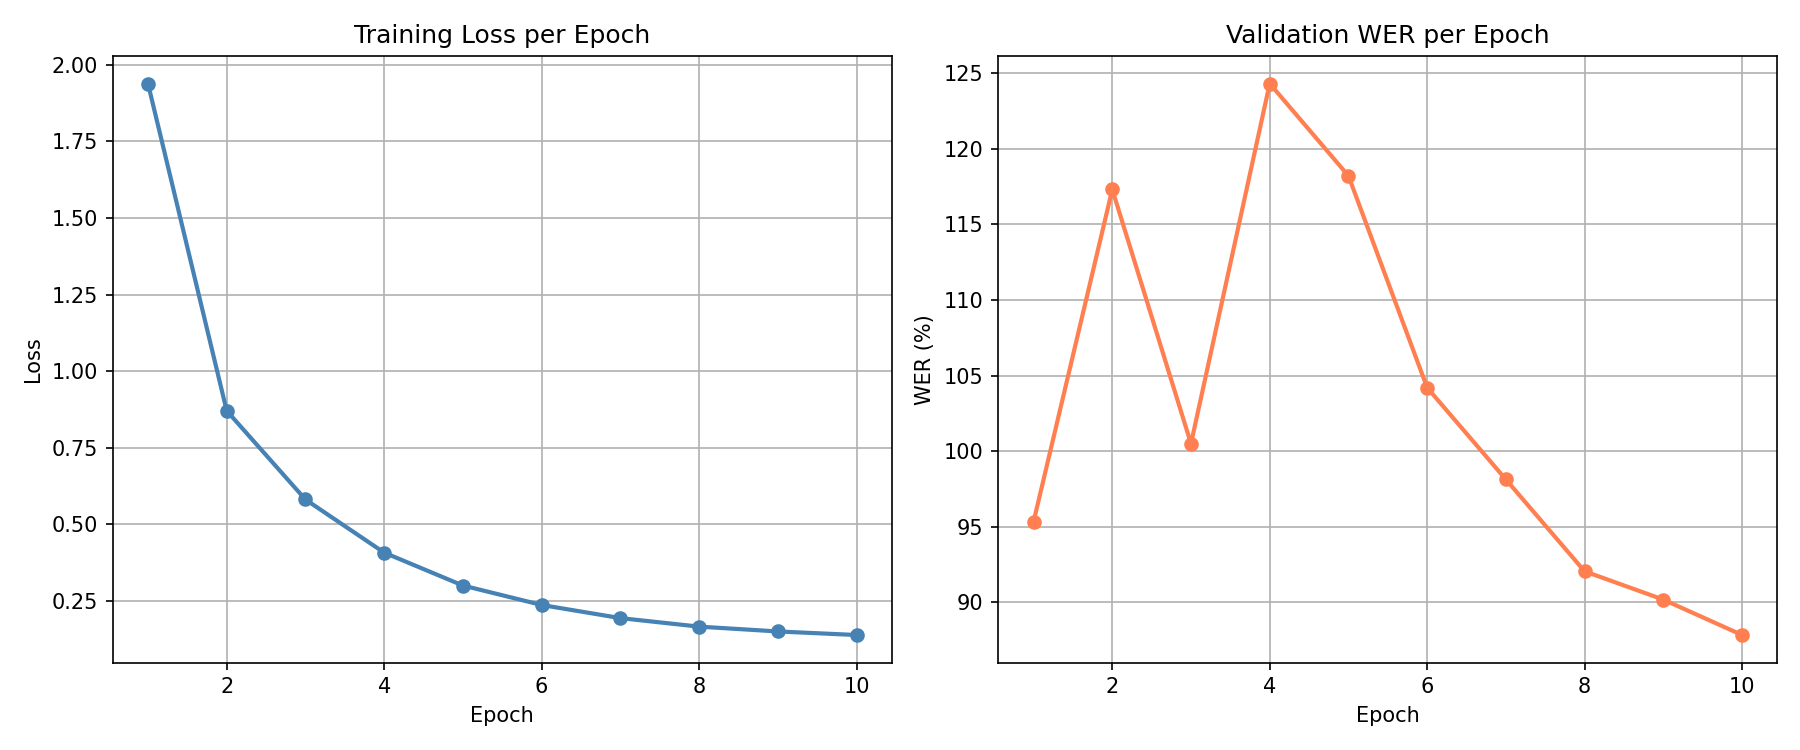
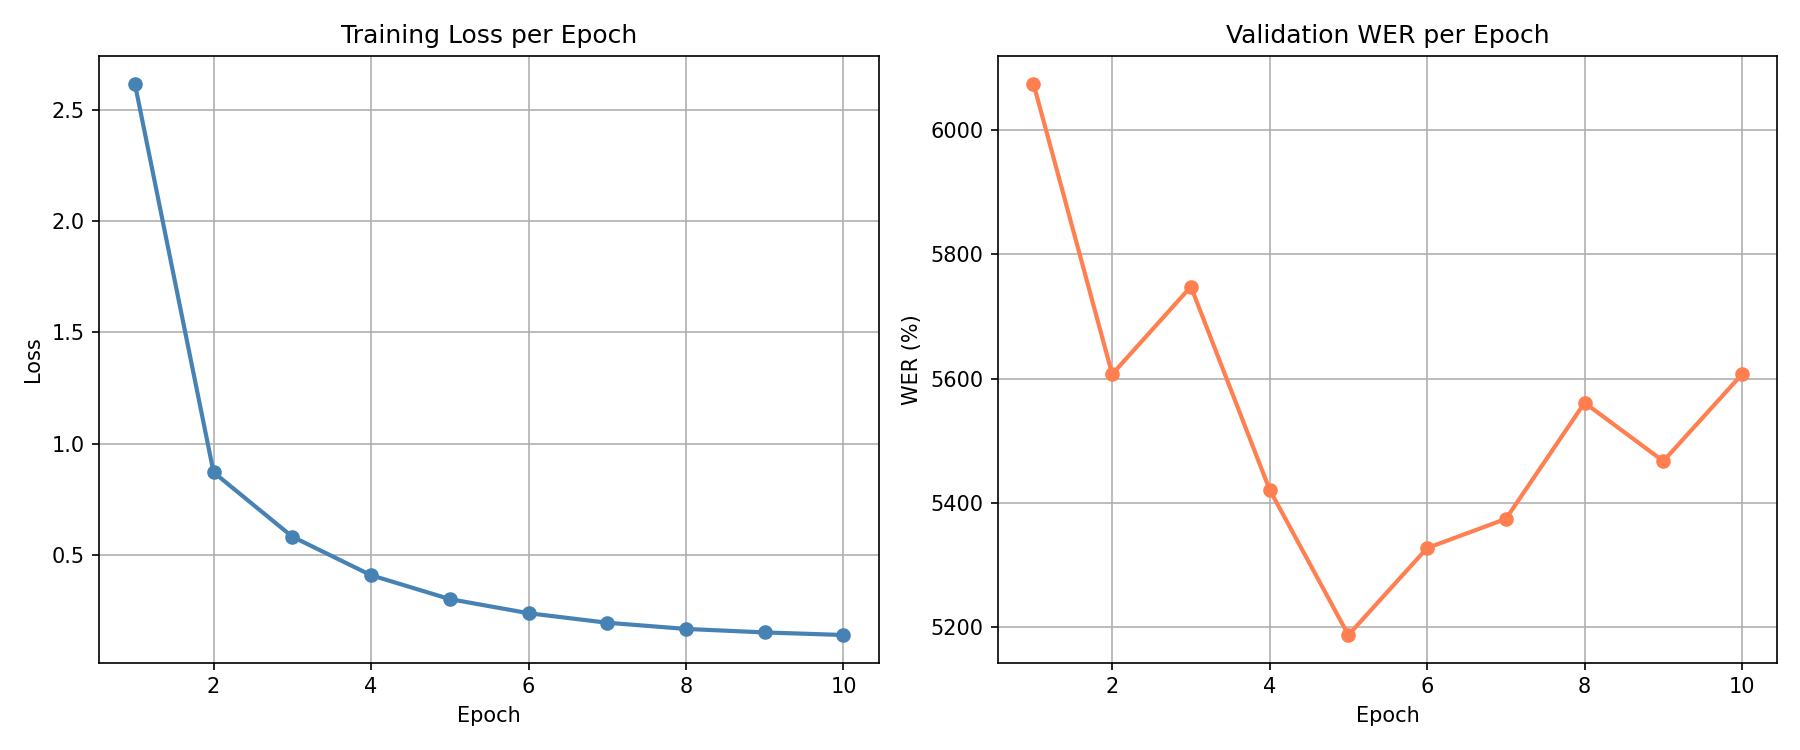
wer: 51.36
train/val=150/30, epochs =10 , batch size=8 , learning rate =1e-5

diff --git a/part_b/fine_tuner.py b/part_b/fine_tuner.py
@@ -3,14 +3,13 @@ import os
 sys.path.append(os.path.join(os.path.dirname(__file__), '..', 'part_a'))
 
 import torch
-import numpy as np
+import evaluate
 from transformers import (
     WhisperProcessor,
     WhisperForConditionalGeneration,
     Seq2SeqTrainer,
     Seq2SeqTrainingArguments,
 )
-from jiwer import wer
 
 from data_loader import loader
 from dataset import build_dataset, build_collator
@@ -18,9 +17,9 @@ from dataset import build_dataset, build_collator
 
 # ── Config ───────────────────────────────────────────────────────────────────
 
-DATA_DIR    = "../part_a/data"
-MODEL_NAME  = "openai/whisper-small"
-OUTPUT_DIR  = "./whisper-az-finetuned"
+DATA_DIR      = "../part_a/data"
+MODEL_NAME    = "openai/whisper-small"
+OUTPUT_DIR    = "./whisper-az-finetuned"
 TRAIN_SAMPLES = 150
 VAL_SAMPLES   = 30
 EPOCHS        = 10
@@ -31,39 +30,31 @@ DEVICE        = "cuda" if torch.cuda.is_available() else "cpu"
 
 # ── Metric ───────────────────────────────────────────────────────────────────
 
-def compute_metrics(processor: WhisperProcessor):
-    """
-    Returns a metric function compatible with Seq2SeqTrainer.
-    Computes WER on validation set each epoch.
-    """
+wer_metric = evaluate.load("wer")
+
+def compute_metrics(processor):
     def _compute(eval_preds):
         pred_ids, label_ids = eval_preds
 
-        # Replace -100 (ignored padding) back to pad token
+        # Replace -100 back to pad token
         label_ids[label_ids == -100] = processor.tokenizer.pad_token_id
 
-        # Decode predictions and references
-        predictions = processor.batch_decode(pred_ids,  skip_special_tokens=True)
+        # Decode
+        predictions = processor.batch_decode(pred_ids, skip_special_tokens=True)
         references  = processor.batch_decode(label_ids, skip_special_tokens=True)
 
-        # Compute WER
-        score = wer(references, predictions)
-
-        return {"wer": round(score, 4)}
+        # WER (multiplied by 100 for percentage)
+        wer = 100 * wer_metric.compute(predictions=predictions, references=references)
+        return {"wer": round(wer, 2)}
 
     return _compute
 
 
-# ── Loader ───────────────────────────────────────────────────────────────────
+# ── Data ─────────────────────────────────────────────────────────────────────
 
-def load_data(processor: WhisperProcessor):
-    """
-    Load and prepare train and validation datasets.
+def load_data(processor):
+    print("Loading and pre-processing datasets...")
 
-    Returns:
-        train_dataset, val_dataset
-    """
-    print("Loading datasets...")
     raw_train = loader(DATA_DIR, split="train")
     raw_val   = loader(DATA_DIR, split="validation")
 
@@ -79,49 +70,49 @@ def load_data(processor: WhisperProcessor):
 # ── Trainer ──────────────────────────────────────────────────────────────────
 
 def build_trainer(model, processor, train_dataset, val_dataset):
-    """
-    Build Seq2SeqTrainer with all training arguments.
 
-    Returns:
-        Seq2SeqTrainer
-    """
     args = Seq2SeqTrainingArguments(
         output_dir                  = OUTPUT_DIR,
         per_device_train_batch_size = BATCH_SIZE,
         per_device_eval_batch_size  = BATCH_SIZE,
-        num_train_epochs            = EPOCHS,
         learning_rate               = LEARNING_RATE,
+        num_train_epochs            = EPOCHS,
+        warmup_steps                = 50,
 
-        # Evaluation + saving
-        eval_strategy       = "epoch",
-        save_strategy       = "epoch",
-        load_best_model_at_end      = True,        # saves best checkpoint by WER
+        # Gradient checkpointing (memory efficient on GPU)
+        gradient_checkpointing      = True,
+        gradient_accumulation_steps = 1,
+
+        # Eval + save
+        eval_strategy               = "epoch",
+        save_strategy               = "epoch",
+        load_best_model_at_end      = True,
         metric_for_best_model       = "wer",
-        greater_is_better           = False,       # lower WER is better
+        greater_is_better           = False,
 
         # Whisper specific
         predict_with_generate       = True,
         generation_max_length       = 225,
 
-        # Logging
-        logging_dir                 = "./logs",
-        logging_strategy            = "epoch",
-        report_to                   = "none",      # disable wandb
-
         # GPU
         fp16                        = torch.cuda.is_available(),
+        fp16_full_eval              = torch.cuda.is_available(),
+
+        # Logging
+        logging_strategy            = "epoch",
+        report_to                   = "none",
     )
 
     collator = build_collator(processor)
 
     trainer = Seq2SeqTrainer(
-        model            = model,
-        args             = args,
-        train_dataset    = train_dataset,
-        eval_dataset     = val_dataset,
-        processing_class = processor.feature_extractor,
-        data_collator    = collator,
-        compute_metrics  = compute_metrics(processor),
+        model           = model,
+        args            = args,
+        train_dataset   = train_dataset,
+        eval_dataset    = val_dataset,
+        data_collator   = collator,
+        compute_metrics = compute_metrics(processor),
+        processing_class= processor.feature_extractor,
     )
 
     return trainer
@@ -131,22 +122,30 @@ def build_trainer(model, processor, train_dataset, val_dataset):
 
 def main():
     print(f"Using device: {DEVICE}")
-
-    # Load processor and model
     print(f"Loading model: {MODEL_NAME}")
-    processor = WhisperProcessor.from_pretrained(MODEL_NAME, language="azerbaijani", task="transcribe")
-    model     = WhisperForConditionalGeneration.from_pretrained(MODEL_NAME).to(DEVICE)
 
-    # Freeze encoder — only fine-tune decoder (faster + less overfitting)
-    model.freeze_encoder()
+    processor = WhisperProcessor.from_pretrained(
+        MODEL_NAME, language="azerbaijani", task="transcribe"
+    )
+
+    model = WhisperForConditionalGeneration.from_pretrained(MODEL_NAME)
+
+    # Disable cache during training (incompatible with gradient checkpointing)
+    model.config.use_cache = False
+
+    # Set generation config properly (new way — no forced_decoder_ids)
+    model.generation_config.language = "azerbaijani"
+    model.generation_config.task     = "transcribe"
+    model.generation_config.forced_decoder_ids = None
+
+    model.to(DEVICE)
 
     # Load data
     train_dataset, val_dataset = load_data(processor)
 
-    # Build trainer
+    # Build trainer and train
     trainer = build_trainer(model, processor, train_dataset, val_dataset)
 
-    # Train
     print("\nStarting fine-tuning...")
     trainer.train()
 

diff --git a/part_b/dataset.py b/part_b/dataset.py
@@ -1,124 +1,73 @@
 import torch
 import librosa
-import numpy as np
 from torch.utils.data import Dataset
-from transformers import WhisperProcessor
 from dataclasses import dataclass
-from typing import Any, Dict, List
+from typing import Any, Dict, List, Union
+
+SAMPLE_RATE = 16000
 
 
-# ── Dataset ─────────────────────────────────────────────────────────────────
+# ── Dataset ──────────────────────────────────────────────────────────────────
 
 class AzerbaijaniASRDataset(Dataset):
-    """
-    PyTorch Dataset for Azerbaijani ASR fine-tuning with Whisper.
-    Loads audio, extracts log-mel features and tokenizes reference text.
-    """
-
-    def __init__(self, hf_dataset, processor: WhisperProcessor, sample_rate: int = 16000):
-        """
-        Args:
-            hf_dataset  : HuggingFace dataset split (train / validation / test)
-            processor   : WhisperProcessor (feature extractor + tokenizer)
-            sample_rate : Target sampling rate (Whisper expects 16kHz)
-        """
-        self.dataset     = hf_dataset
-        self.processor   = processor
-        self.sample_rate = sample_rate
+    def __init__(self, hf_dataset, processor):
+        self.data      = list(hf_dataset)   # convert to plain list — no HF overhead
+        self.processor = processor
 
     def __len__(self):
-        return len(self.dataset)
+        return len(self.data)
 
-    def __getitem__(self, idx: int) -> Dict[str, torch.Tensor]:
-        sample     = self.dataset[idx]
-        audio_path = sample["path"]
-        reference  = sample["sentence"]
+    def __getitem__(self, idx):
+        sample    = self.data[idx]
+        audio, _  = librosa.load(sample["path"], sr=SAMPLE_RATE)
 
-        # Load and resample audio
-        audio, _ = librosa.load(audio_path, sr=self.sample_rate)
+        input_features = self.processor.feature_extractor(
+            audio, sampling_rate=SAMPLE_RATE
+        ).input_features[0]
 
-        # Extract log-mel features
-        input_features = self.processor(
-            audio,
-            sampling_rate=self.sample_rate,
-            return_tensors="pt"
-        ).input_features[0]   # shape: (80, 3000)
-
-        # Tokenize reference text into label IDs
-        labels = self.processor.tokenizer(reference).input_ids
+        labels = self.processor.tokenizer(sample["sentence"]).input_ids
 
         return {
             "input_features": input_features,
-            "labels":         torch.tensor(labels, dtype=torch.long)
+            "labels":         labels,
         }
 
 
-# ── Data Collator ────────────────────────────────────────────────────────────
+def build_dataset(hf_dataset, processor, num_samples: int = None):
+    if num_samples is not None:
+        hf_dataset = hf_dataset.select(range(min(num_samples, len(hf_dataset))))
+    return AzerbaijaniASRDataset(hf_dataset, processor)
+
+
+# ── Data Collator ─────────────────────────────────────────────────────────────
 
 @dataclass
 class WhisperDataCollator:
-    """
-    Pads input_features and labels to same length within a batch.
-    Replaces padding token IDs in labels with -100 so they are
-    ignored by the loss function.
-    """
-    processor: WhisperProcessor
+    processor: Any
 
     def __call__(self, features: List[Dict[str, Any]]) -> Dict[str, torch.Tensor]:
 
-        # ── Pad input features ───────────────────────────────────────────────
         input_features = [{"input_features": f["input_features"]} for f in features]
         batch = self.processor.feature_extractor.pad(
-            input_features,
-            return_tensors="pt"
+            input_features, return_tensors="pt"
         )
 
-        # ── Pad labels ───────────────────────────────────────────────────────
         label_features = [{"input_ids": f["labels"]} for f in features]
         labels_batch   = self.processor.tokenizer.pad(
-            label_features,
-            return_tensors="pt"
+            label_features, return_tensors="pt"
         )
 
-        # Replace padding token ID with -100 (ignored in loss)
         labels = labels_batch["input_ids"].masked_fill(
             labels_batch.attention_mask.ne(1), -100
         )
 
-        batch["labels"] = labels
+        # Cut BOS token
+        if (labels[:, 0] == self.processor.tokenizer.bos_token_id).all().cpu().item():
+            labels = labels[:, 1:]
 
+        batch["labels"] = labels
         return batch
 
 
-# ── Factory functions ────────────────────────────────────────────────────────
-
-def build_dataset(hf_dataset, processor: WhisperProcessor,
-                  num_samples: int = None) -> AzerbaijaniASRDataset:
-    """
-    Build AzerbaijaniASRDataset, optionally limiting to num_samples.
-
-    Args:
-        hf_dataset  : Raw HuggingFace dataset split
-        processor   : WhisperProcessor
-        num_samples : If set, take only first N samples
-
-    Returns:
-        AzerbaijaniASRDataset
-    """
-    if num_samples is not None:
-        hf_dataset = hf_dataset.select(range(min(num_samples, len(hf_dataset))))
-
-    return AzerbaijaniASRDataset(hf_dataset, processor)
-
-
-def build_collator(processor: WhisperProcessor) -> WhisperDataCollator:
-    """
-    Build WhisperDataCollator.
-
-    Args:
-        processor: WhisperProcessor
-
-    Returns:
-        WhisperDataCollator
-    """
+def build_collator(processor) -> WhisperDataCollator:
     return WhisperDataCollator(processor=processor)

diff --git a/part_b/compare.py b/part_b/compare.py
@@ -23,17 +23,18 @@ DEVICE          = "cuda" if torch.cuda.is_available() else "cpu"
 
 # Training logs from fine_tuner.py output
 TRAINING_LOGS = [
-    {"epoch": 1,  "train_loss": 1.939, "val_wer": 0.9533},
-    {"epoch": 2,  "train_loss": 0.8707,"val_wer": 1.173},
-    {"epoch": 3,  "train_loss": 0.581, "val_wer": 1.005},
-    {"epoch": 4,  "train_loss": 0.4075,"val_wer": 1.243},
-    {"epoch": 5,  "train_loss": 0.3001,"val_wer": 1.182},
-    {"epoch": 6,  "train_loss": 0.2366,"val_wer": 1.042},
-    {"epoch": 7,  "train_loss": 0.1937,"val_wer": 0.9813},
-    {"epoch": 8,  "train_loss": 0.1659,"val_wer": 0.9206},
-    {"epoch": 9,  "train_loss": 0.1501,"val_wer": 0.9019},
-    {"epoch": 10, "train_loss": 0.1385,"val_wer": 0.8785},
+    {"epoch": 1,  "train_loss": 2.62,    "val_wer": 60.75},
+    {"epoch": 2,  "train_loss": 0.8707,  "val_wer": 56.07},
+    {"epoch": 3,  "train_loss": 0.581,   "val_wer": 57.48},
+    {"epoch": 4,  "train_loss": 0.4075,  "val_wer": 54.21},
+    {"epoch": 5,  "train_loss": 0.3001,  "val_wer": 51.87},
+    {"epoch": 6,  "train_loss": 0.2366,  "val_wer": 53.27},
+    {"epoch": 7,  "train_loss": 0.1937,  "val_wer": 53.74},
+    {"epoch": 8,  "train_loss": 0.1659,  "val_wer": 55.61},
+    {"epoch": 9,  "train_loss": 0.1501,  "val_wer": 54.67},
+    {"epoch": 10, "train_loss": 0.1385,  "val_wer": 56.07},
 ]
+
 
 
 # ── Inference ────────────────────────────────────────────────────────────────
